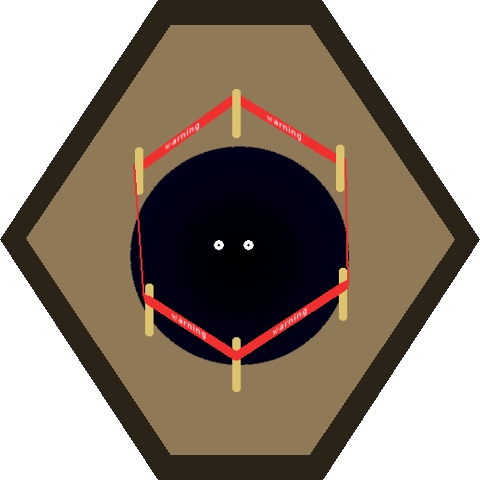
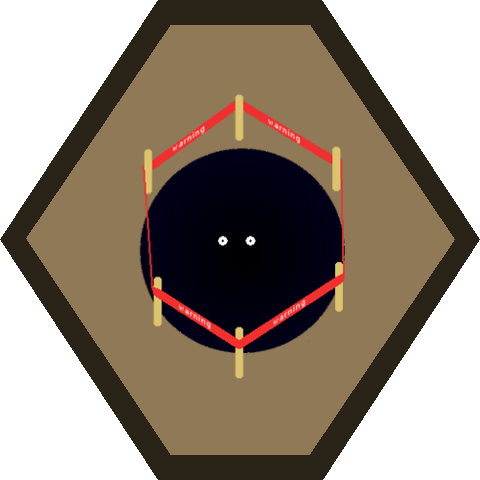
Impovement DrawPickCave
Add normal bridge in DrawPickCave. Change fon color. Resize Pit

diff --git a/HuntTheWumpus/HuntTheWumpus/View.cs b/HuntTheWumpus/HuntTheWumpus/View.cs
@@ -118,7 +118,7 @@ namespace HuntTheWumpus
             BackGround = new CompressionImage("data/Cave/background.png", width, 120);
             #endregion
             #region setted constants
-            StownPosX.Add(1.0f / 3.0f); // 0 item
+            StownPosX.Add(1.0f / 3.0f - 1.0f / 70.0f); // 0 item
             StownPosY.Add(-1.0f / 6.0f);
             StownPosX.Add(0);           // 1 item
             StownPosY.Add(1.0f / 9.0f);
@@ -434,34 +434,38 @@ namespace HuntTheWumpus
 
         public void DrawPickCave(List<int>[] graph, List<bool>[] isActive, int num)
         {
-            Clear(Color.LightGreen);
+            Clear(Color.DarkOrange);
             int size = 55;
             int d = 5;
             int hght = (int)(size * 1.732);
-            for (int i = 0; i < 6; ++i)
-                for (int j = 0; j < 5; ++j)
+            for (int i = 0; i <= 6; ++i)
+                for (int j = 0; j <= 5; ++j)
                 {
                     int lx = i * size * 3 / 2 + 100 + i * d, ly = j * hght + (i % 2) * (hght + d) / 2 + 50 + j * d;
-                    Point[] pn = new Point[6];
-                    pn[0] = new Point(lx + size / 2, ly);
-                    pn[1] = new Point(lx, ly + hght / 2);
-                    pn[2] = new Point(lx + size / 2, ly + hght);
-                    pn[3] = new Point(lx + size * 3 / 2, ly + hght);
-                    pn[4] = new Point(lx + size * 2, ly + hght / 2);
-                    pn[5] = new Point(lx + size * 3 / 2, ly);
-                    Graphics.FillPolygon(Brushes.BlueViolet, pn);
+                    if (i < 6 && j < 5)
+                    {
+                        Point[] pn = new Point[6];
+                        pn[0] = new Point(lx + size / 2, ly);
+                        pn[1] = new Point(lx, ly + hght / 2);
+                        pn[2] = new Point(lx + size / 2, ly + hght);
+                        pn[3] = new Point(lx + size * 3 / 2, ly + hght);
+                        pn[4] = new Point(lx + size * 2, ly + hght / 2);
+                        pn[5] = new Point(lx + size * 3 / 2, ly);
+                        Graphics.FillPolygon(Brushes.BlueViolet, pn);
+                    }
                     Pen pen = new Pen(Color.Brown, 9);
                     for (int k = 0; k < 3; ++k)
                     {
-                        int v = i + j * 6;
+                        int v = (i % 6) + (j % 5) * 6;
                         if (isActive[v][k])
                         {
-                            if (k == 0)
-                                Graphics.DrawLine(pen, lx + size, ly + hght / 3, lx + size, ly - hght / 3 - d);
-                            if (k == 1)
-                                Graphics.DrawLine(pen, lx + size * 2 / 3, ly + hght / 3, lx - size / 3, ly);
-                            if (k == 2)
-                                Graphics.DrawLine(pen, lx + size * 2 / 3, ly + hght * 2 / 3, lx - size / 3, ly + hght);
+                            if (k == 0 && i < 6)
+                                Graphics.DrawLine(pen, lx + size, ly + hght / 6, lx + size, ly - hght / 6 - d);
+                            if (k == 1 && ((i < 6 && j < 5) || (i == 6 && j > 0) || (j == 5 && i > 1 && i % 2 == 0)))
+                                Graphics.DrawLine(pen, lx + 25, ly + 29, lx - 1, ly + 13);
+                            if (k == 2 &&  j < 5)
+                                Graphics.DrawLine(pen, lx + 25, ly + hght - 29, lx - 1, ly + hght - 13);
+                            
                         }
                     }
                 }
@@ -469,7 +473,7 @@ namespace HuntTheWumpus
             {
                 if (i > 0)
                     Graphics.DrawLine(new Pen(Color.Black), i * Width / 5, Height - 120, i * Width / 5, Height);
-                DrawText((i + 1).ToString(), i * Width / 5 + 60, Height - 100, 40);
+                DrawText((i + 1).ToString(), i * Width / 5 + 70, Height - 100, 40);
             }
             DrawText("GO!!", 850, 550, 40);
         }
